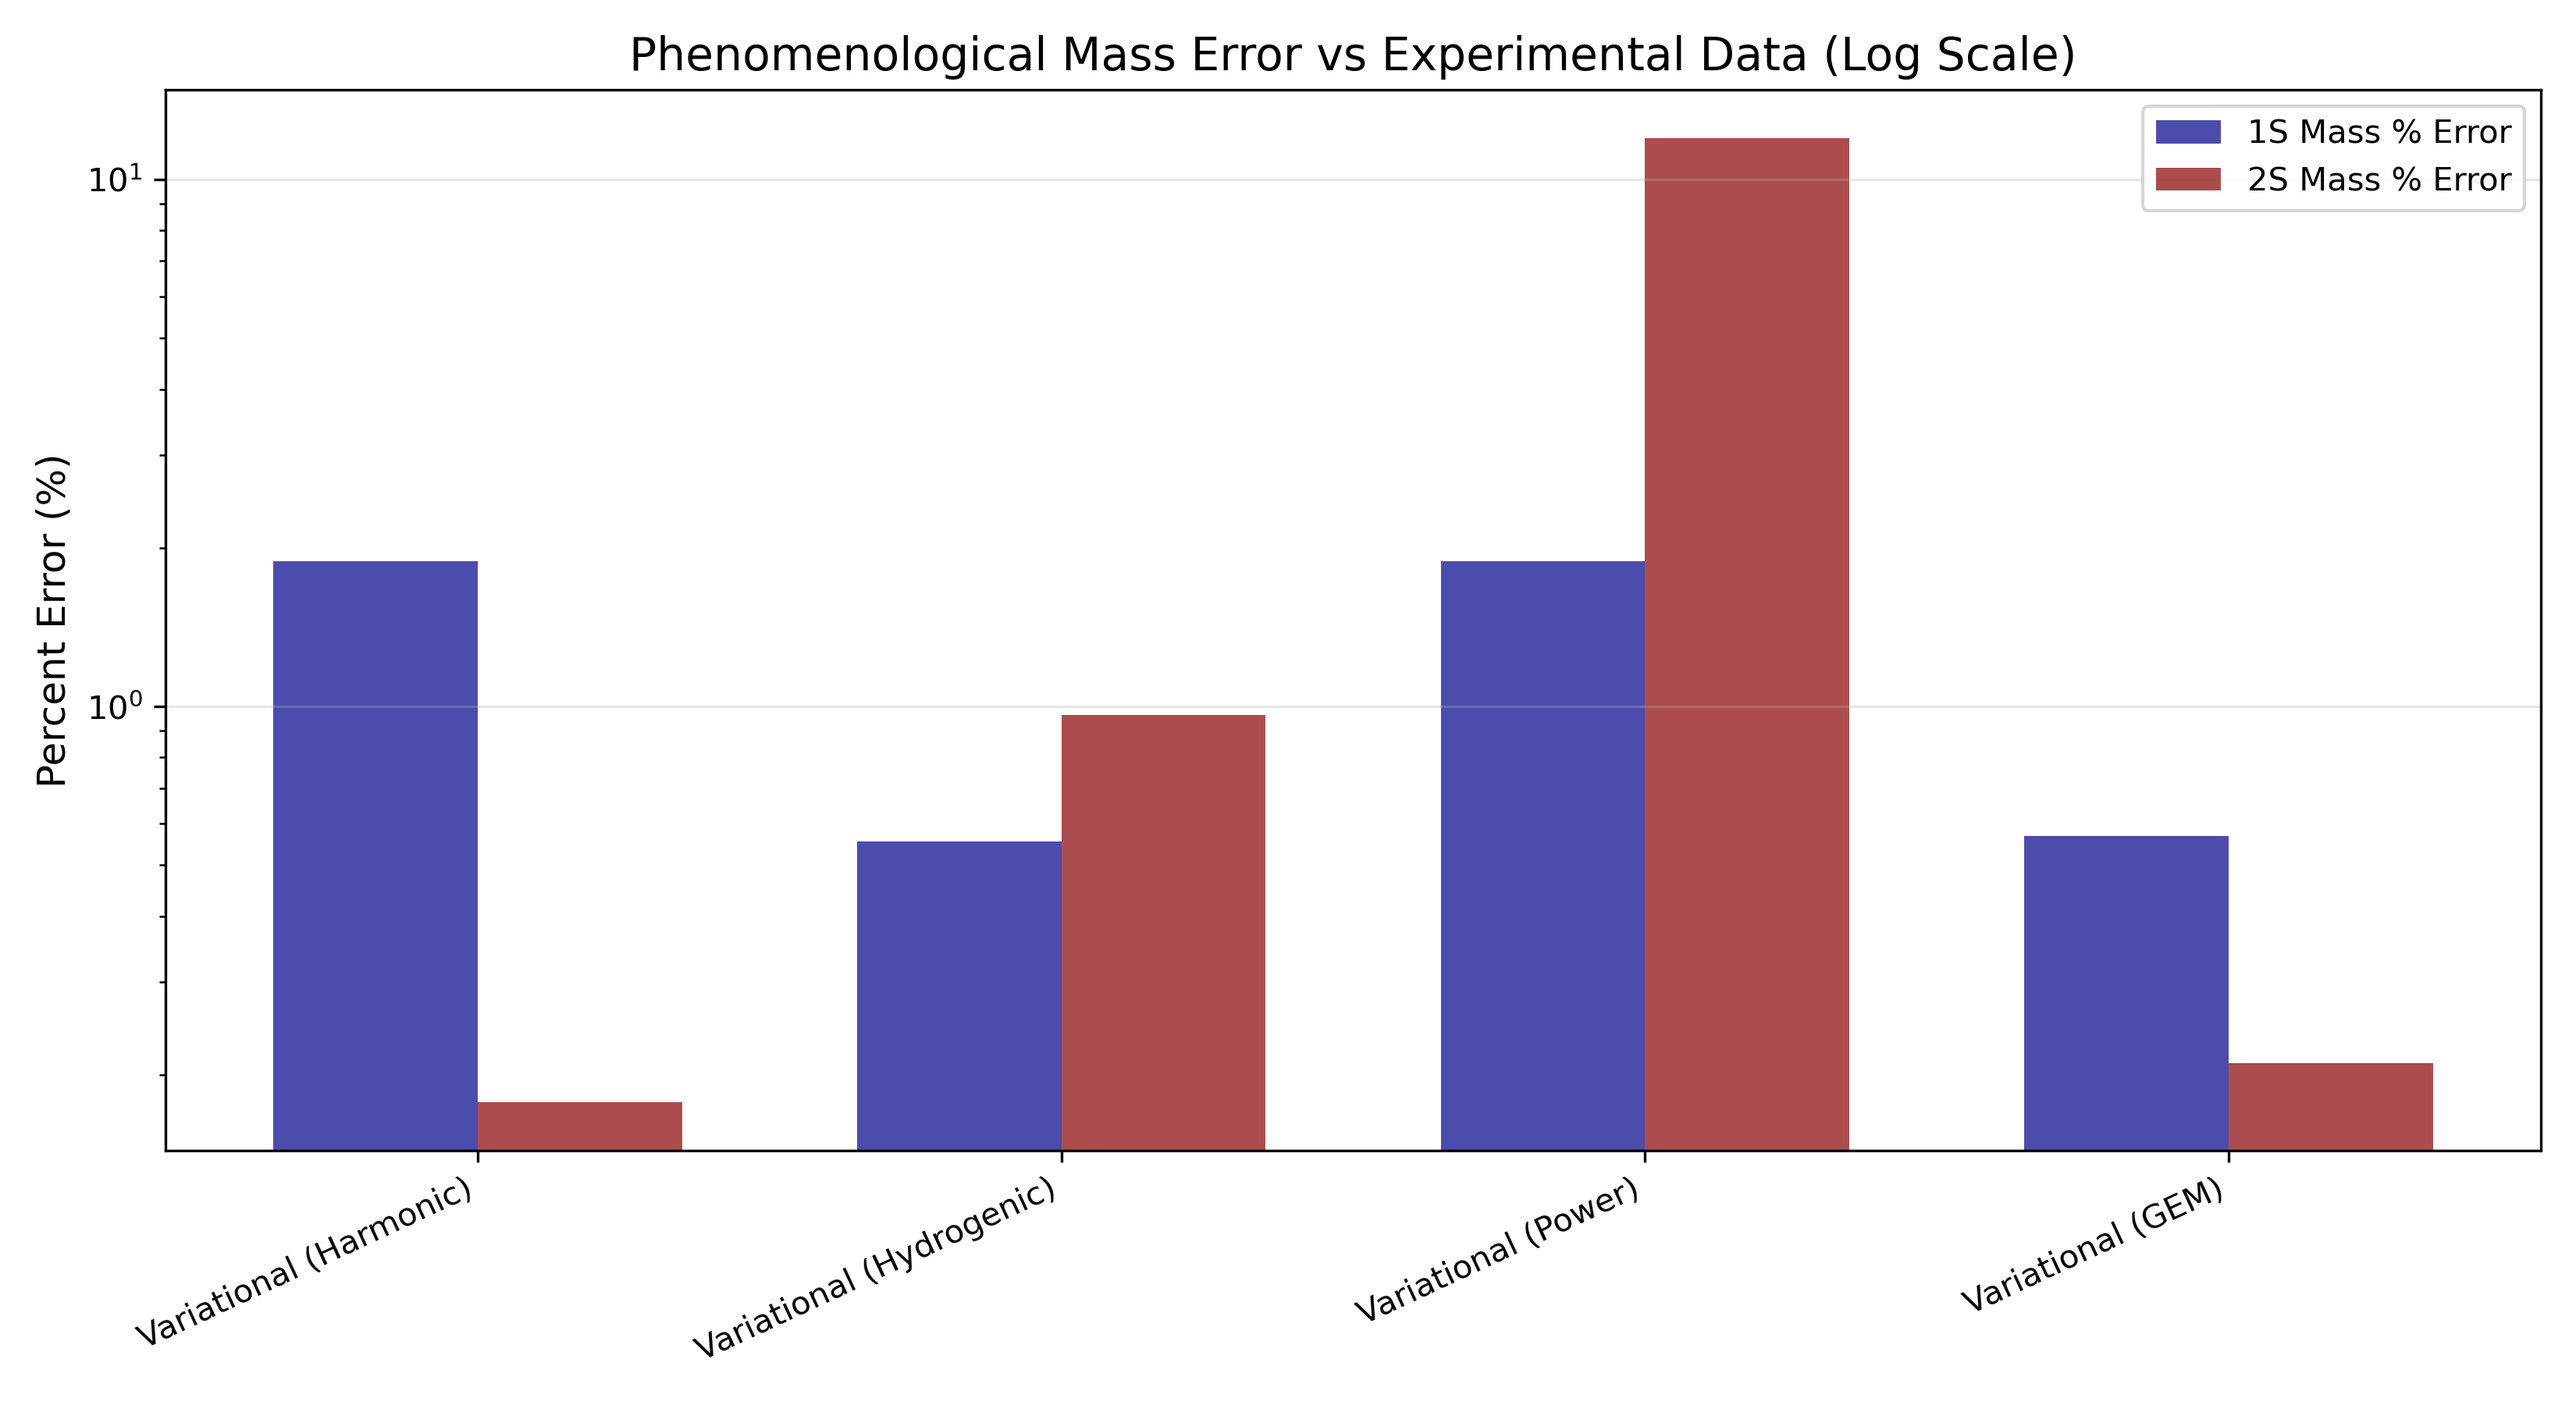
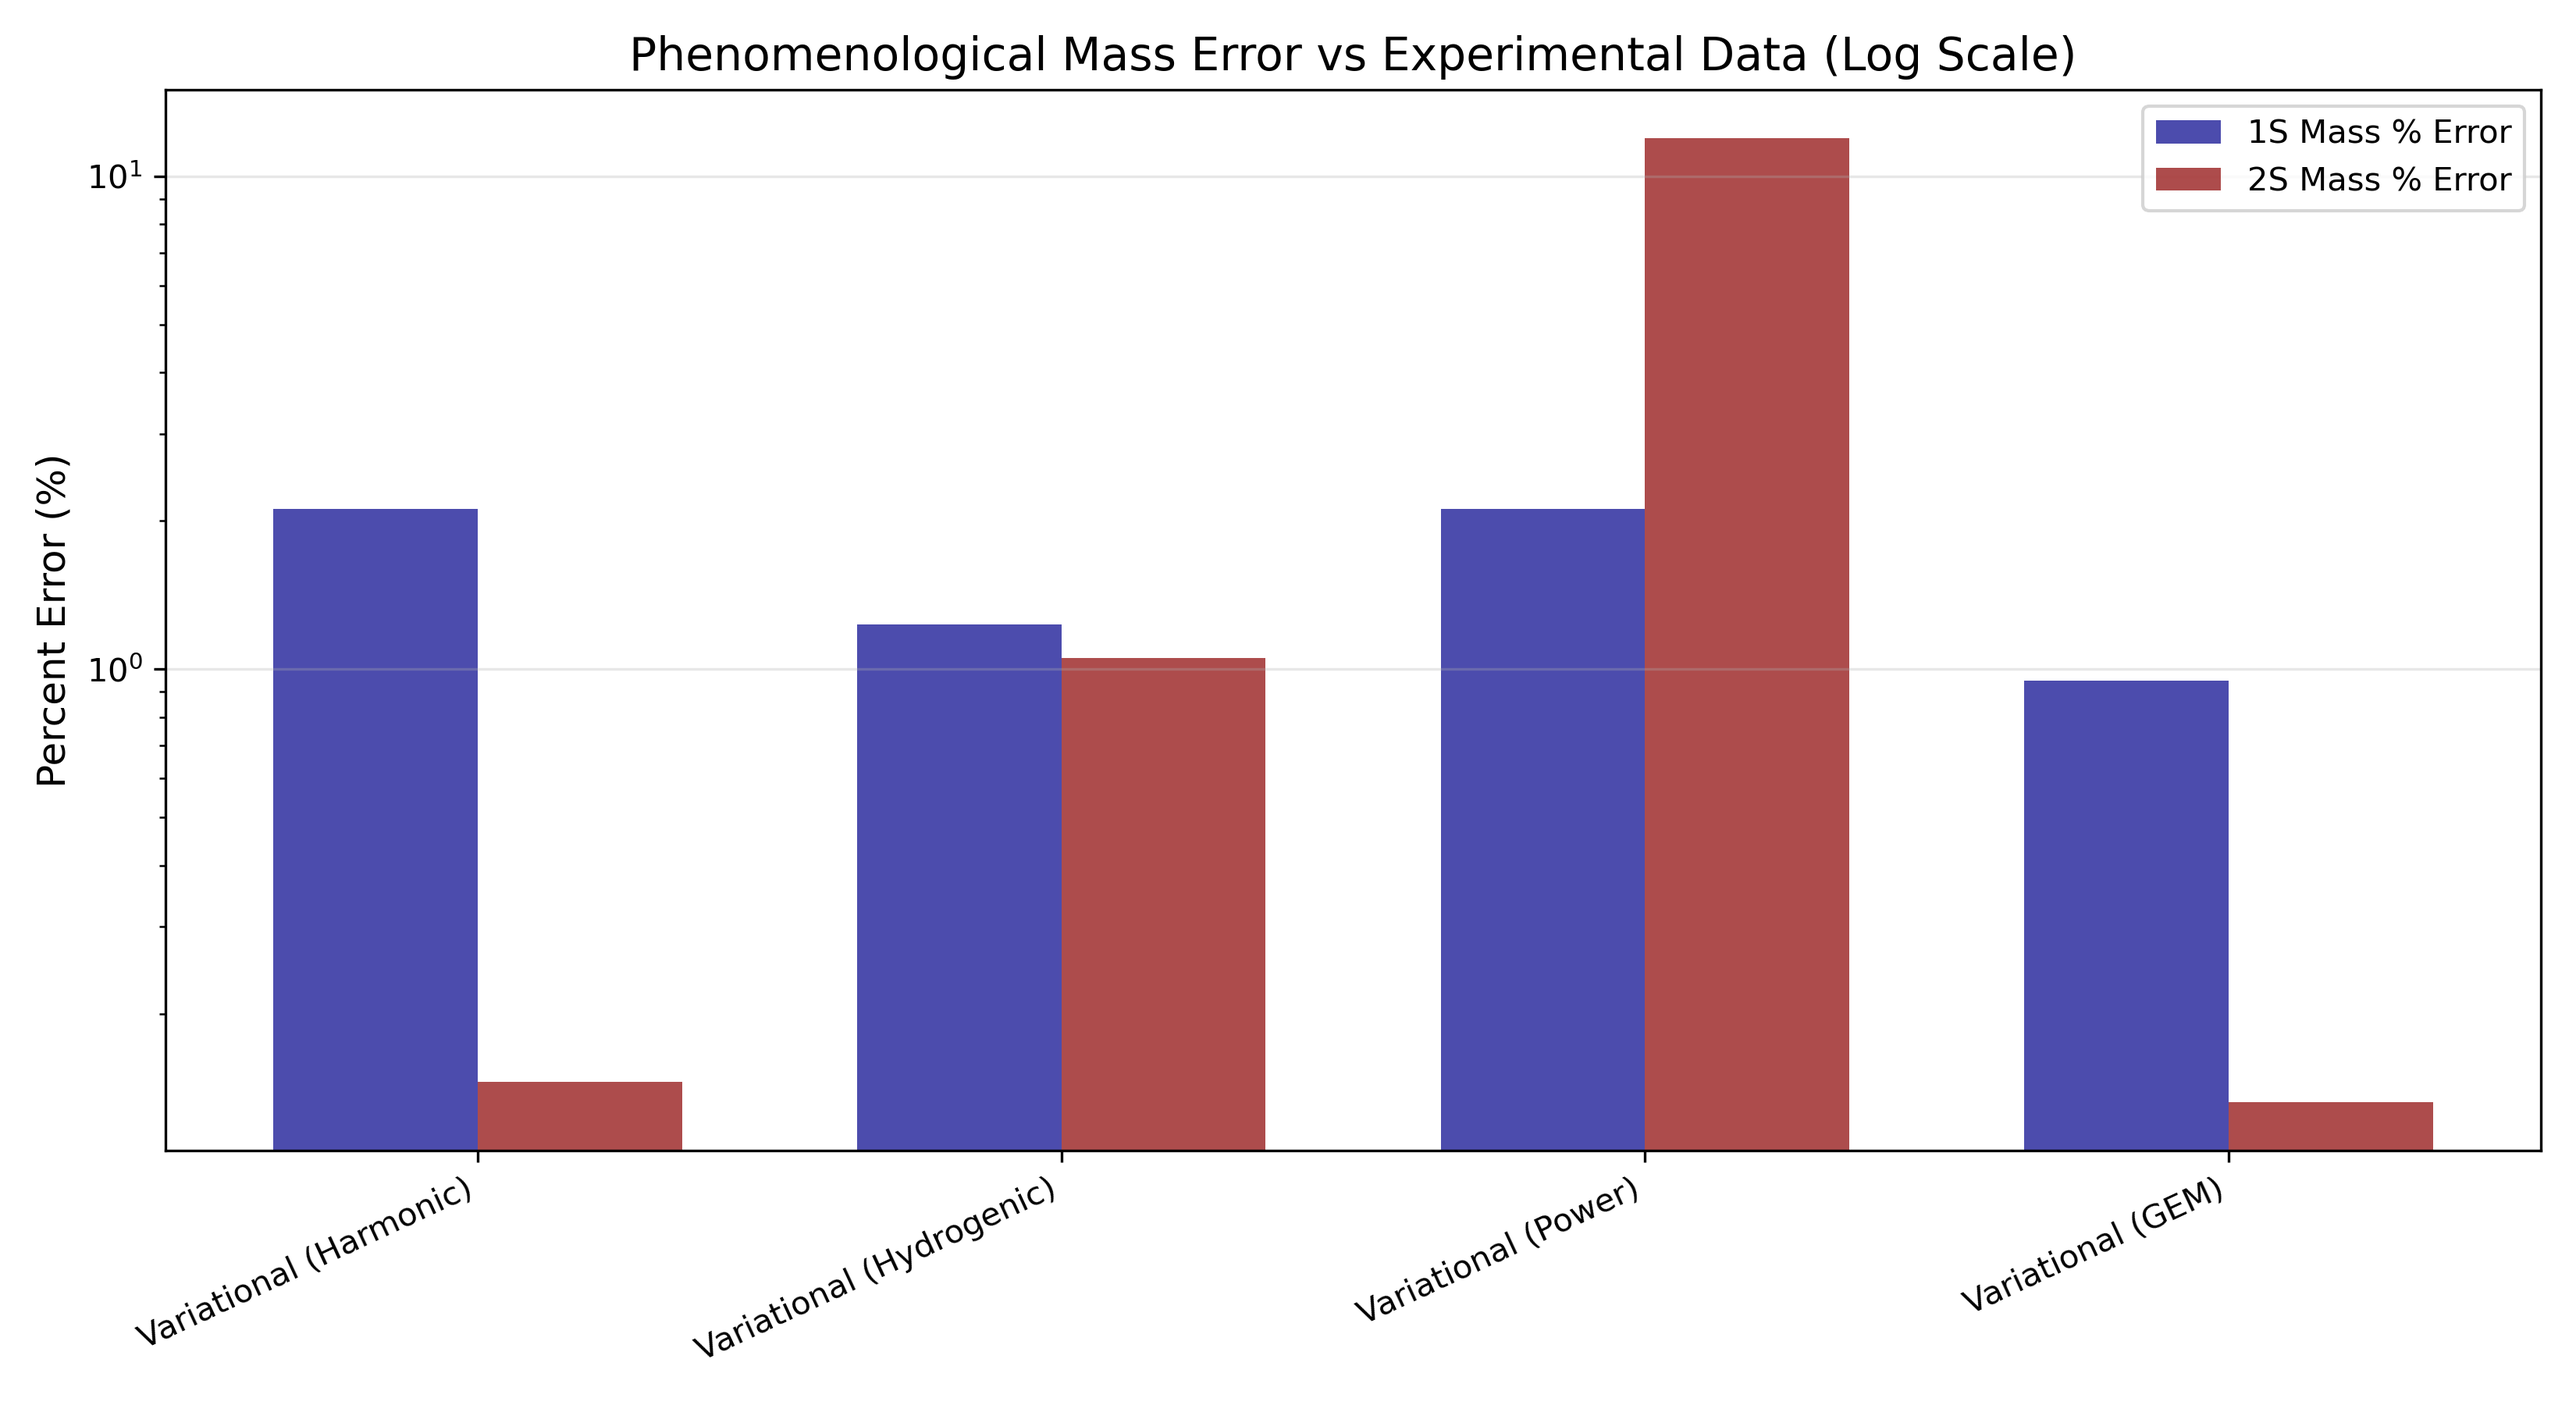
feat: Update charmonium parameters and numerical results; adjust smearing parameter and refine error analysis

diff --git a/code/charmonium_sector/charmonium_sector.py b/code/charmonium_sector/charmonium_sector.py
@@ -13,7 +13,7 @@ MU = M_Q / 2.0
 ALPHA_S = 0.40  # Strong coupling constant for the Charmonium interaction
 B = 0.183  # Linear confinement string tension
 C = -0.250  # Constant potential shift (Adjusted for Charmonium)
-SIGMA_SMEAR = 1.5  # Smearing parameter for spin-spin interaction (GeV)
+SIGMA_SMEAR = 1.2  # Smearing parameter for spin-spin interaction (GeV)
 EXP_MASS_1S = 2.9839  # eta_c (1S) mass in GeV
 EXP_MASS_1S_TRIPLET = 3.0969  # J/psi (1S) mass in GeV
 EXP_MASS_2S = 3.6861  # psi(2S) mass in GeV
